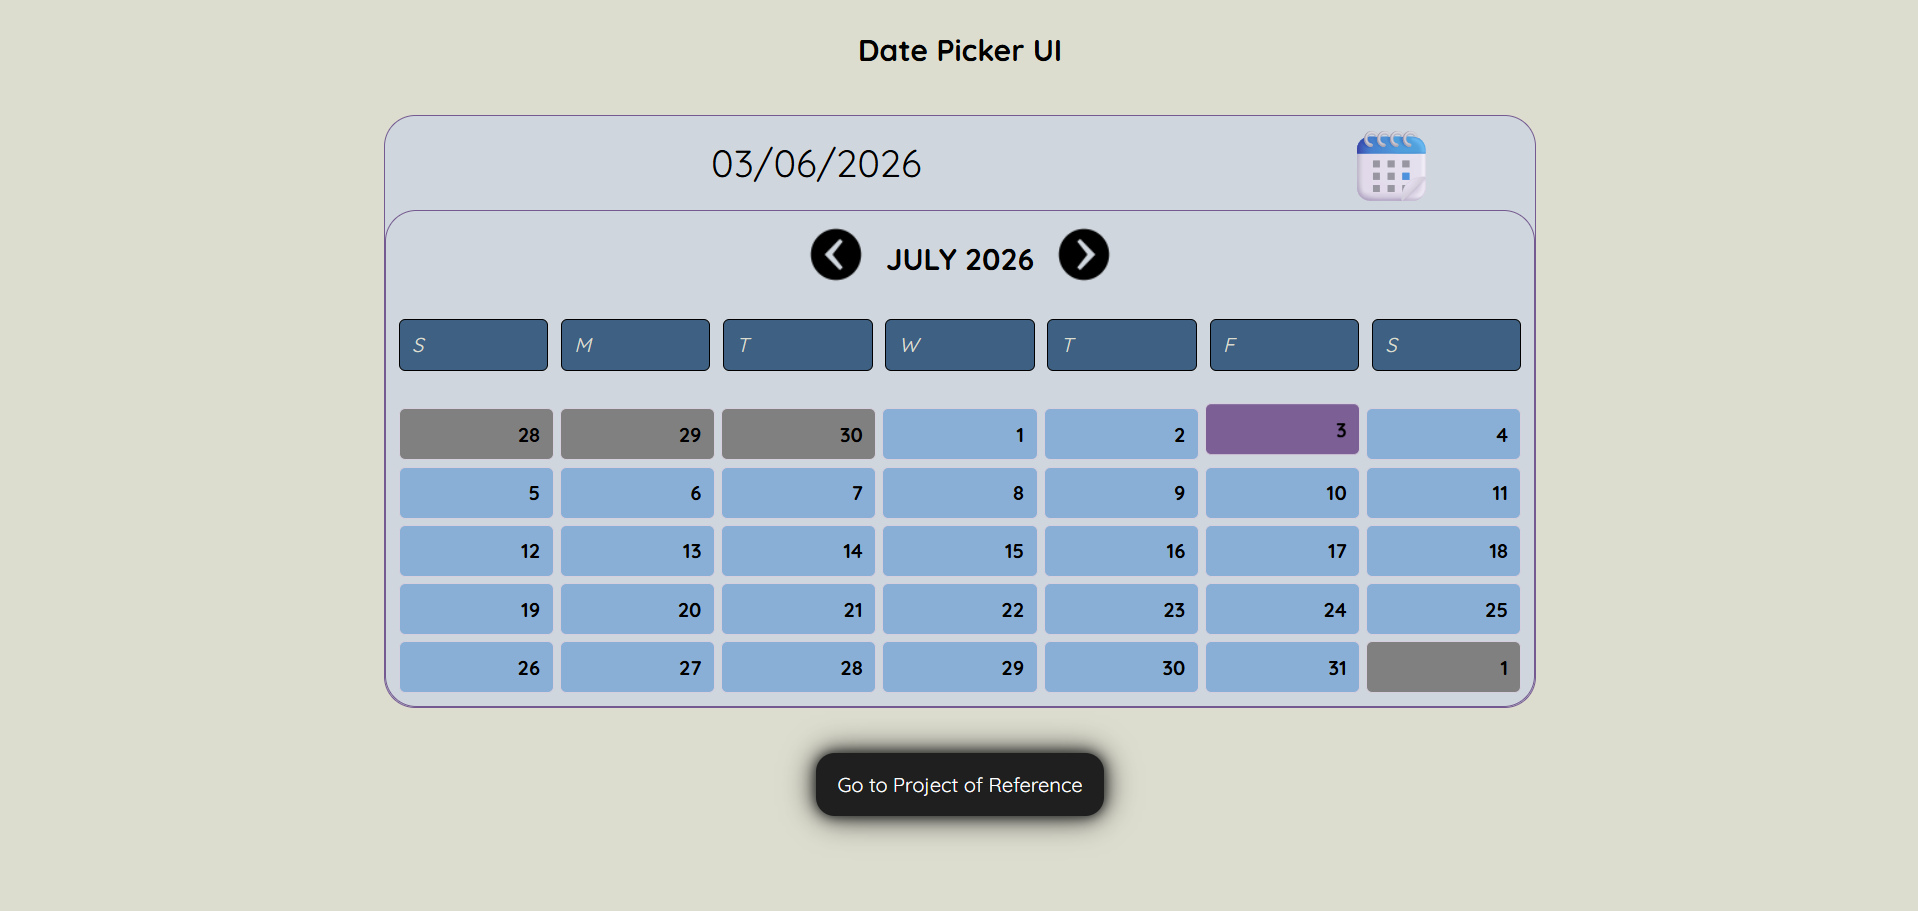
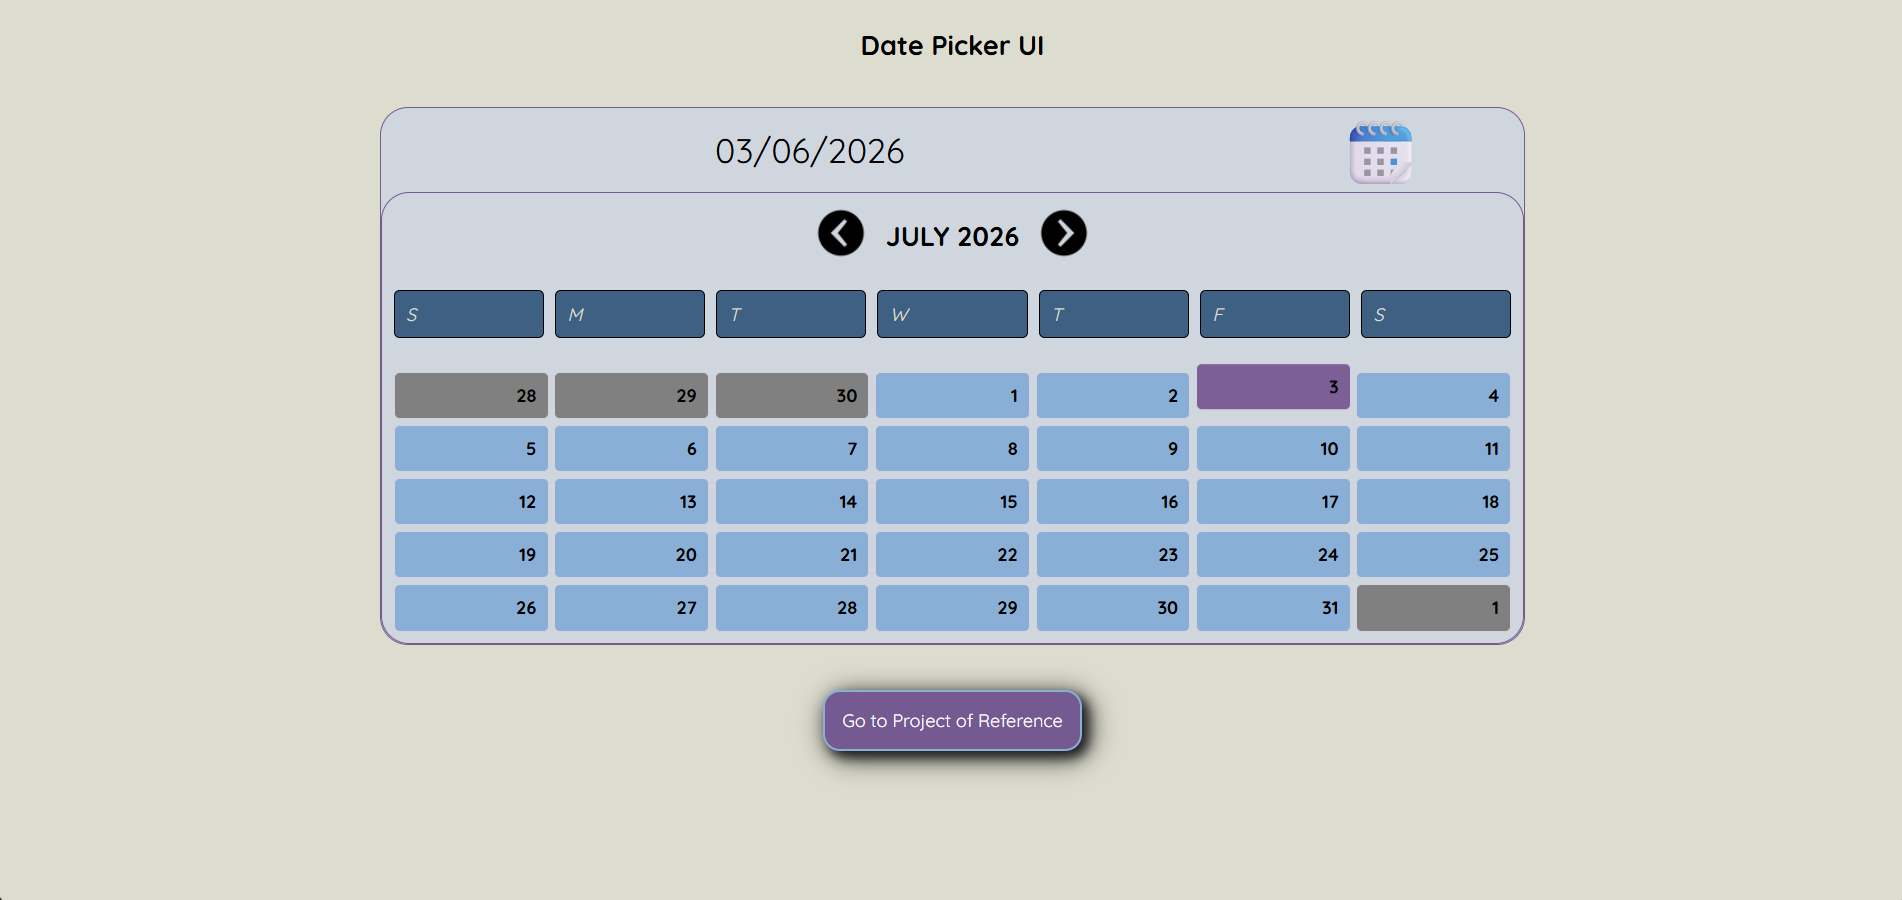
Made an overhaul of homepage styles to now follow a Mobile-First Approach and also have project containers be displayed using Flexbox rather than CSS Grid

diff --git a/styles.css b/styles.css
@@ -25,7 +25,7 @@
 html {
     min-height: 100%;
     scroll-behavior: smooth;
-    font-size: 75%;
+    font-size: 55%;
 }
 body {
     background-color: var(--primary-color);
@@ -88,7 +88,7 @@ header {
     font-weight: 600;
 }
 #intro {
-    margin: 20px ;
+    margin: 5px;
     padding: 10px;
     min-height: 40vh;
     max-width: 100%;
@@ -105,6 +105,8 @@ header {
     display: flex;
     flex-direction: column;
     justify-content: space-evenly;
+    overflow: scroll;
+    scrollbar-width: 20px;
 }
 #bio {
     text-align: center;
@@ -170,12 +172,18 @@ header {
     text-align: center;
 }
 #projects {
-    display: grid;
-    grid-template-columns: repeat(auto-fit, minmax(350px, 1fr));
+    display: flex;
+    flex-wrap: wrap;
+    justify-content: center;
     gap: 10px;
     padding: 10px;
 }
+
+/* Phone/default: one column */
 .project-container {
+    flex: 0 1 100%;
+    max-width: 390px;
+
     background: radial-gradient(
         circle at bottom right, 
         var(--secondary-colour-soft), 
@@ -207,24 +215,46 @@ header {
 .project-name {
     text-align: center;
     margin: 10px auto;
-    font-size: 1.5rem;
+    font-size: 1.9rem;
 }
 
 /* -------------------------------------------*/
 /* Mobile View Styles */
-@media only screen and (max-width: 480px) {
+
+/* Bigger phones and above */
+@media only screen and (min-width: 481px) {
     html {
-        font-size: 55%;
+        font-size: 75%;
     }
     #intro {
-        font-size: 2rem;
-        margin: 5px;
-        max-width: 100%;
-        overflow: scroll;
-        scrollbar-width: 20px;
+        margin: 20px;
+        overflow: visible;
+        scrollbar-width: auto;
     }
     .project-name {
-    margin: 10px auto;
-    font-size: 1.9rem;
+        margin: 10px auto;
+        font-size: 1.5rem;
     }
 }
+
+/* Tablet: two columns */
+@media only screen and (min-width: 650px) {
+    .project-container {
+        flex-basis: calc((100% - 10px) / 2);
+        max-width: none;
+    }
+}
+
+/* Desktop: three columns */
+@media only screen and (min-width: 1050px) {
+    .project-container {
+        flex-basis: calc((100% - 20px) / 3);
+    }
+}
+
+/* Large desktop: four columns */
+@media only screen and (min-width: 1450px) {
+    .project-container {
+        flex-basis: calc((100% - 30px) / 4);
+    }
+}   

diff --git a/index.html b/index.html
@@ -44,7 +44,7 @@
             <div><a href="#proj">Projects</a></div>
         </nav>
         <div id="header-end">
-            <a href="https://github.com/Al-Farhan-Seg" target="_blank">
+            <a href="https://github.com/Al-Farhan-Seg/roadmap.sh-Projects" target="_blank">
                 <img src="./top_assets/github_png.png" alt="">
             </a>
         </div> <!-- Check on this later -->
@@ -65,7 +65,7 @@
             <!-- Project 1-->
             <div class="project-container">
                 <a href="./1-single-page-cv/index.html">
-                    <img class="project-img" src="./top_assets/Single-Page-CV.png" alt="">
+                    <img class="project-img" src="./top_assets/Single-Page-CV.png" alt="Single Page CV screenshot">
                     <p class="project-name">Single Page CV</p>
                 </a>
             </div>
@@ -73,7 +73,7 @@
             <!-- Project 2-->
             <div class="project-container">
                 <a href="./2-basic-html-website/homepage.html">
-                    <img class="project-img" src="./top_assets/Basic-HTML-Website.png" alt="">
+                    <img class="project-img" src="./top_assets/Basic-HTML-Website.png" alt="Basic HTML Website screenshot">
                     <p class="project-name">Basic HTML Website</p>
                 </a>
             </div>
@@ -81,7 +81,7 @@
             <!-- Project 3-->
             <div class="project-container">
                 <a href="./3-personal-portfolio/homepage.html">
-                    <img class="project-img" src="./top_assets/Personal-Portfolio.png" alt="">  
+                    <img class="project-img" src="./top_assets/Personal-Portfolio.png" alt="Personal Portfolio screenshot">  
                     <p class="project-name">Personal Portfolio</p>
                 </a>
             </div>
@@ -90,7 +90,7 @@
             <!-- Project 4-->
             <div class="project-container">
                 <a href="./4-changelog-component/index.html">
-                    <img class="project-img" src="./top_assets/Changelog-Component.png" alt="">
+                    <img class="project-img" src="./top_assets/Changelog-Component.png" alt="Changelog Component screenshot">
                     <p class="project-name">Changelog Component</p>
                 </a>
             </div>
@@ -98,7 +98,7 @@
             <!-- Project 5-->
             <div class="project-container">
                 <a href="./5-testimonial-cards/index.html">
-                    <img class="project-img" src="./top_assets/Testimonial-Cards.png" alt="">   
+                    <img class="project-img" src="./top_assets/Testimonial-Cards.png" alt="Testimonial Cards screenshot">   
                     <p class="project-name">Testimonial Cards</p>
                 </a>
             </div>
@@ -107,20 +107,26 @@
             <!-- Project 6-->
             <div class="project-container">
                 <a href="./6-date-picker-ui/index.html">
-                    <img class="project-img" src="./top_assets/Date-Picker-UI.png" alt="">
+                    <img class="project-img" src="./top_assets/Date-Picker-UI.png" alt="Date Picker UI screenshot">
                     <p class="project-name">Date Picker UI</p>
                 </a>
             </div>
+
+            <!-- Project 7-->
+            <div class="project-container">
+                <a href="./7-accessible-form-ui/index.html">
+                    <img class="project-img" src="./top_assets/Date-Picker-UI.png" alt="Accessible Form UI screenshot">
+                    <p class="project-name">Accessible Form UI</p>
+                </a>
+            </div>
+
+            
   
         </section>
     </main>
 
-    <!--
-        1. Create a website hosted on GitHub pages
-        2. Content: Shopping prices
-        3. Dedication: To my young sisters
-        4. And only accessed by my sisters
-    -->
-
+    <footer>
+        <!-- Content to be added here after end of projects-->
+    </footer>
 </body>
 </html>